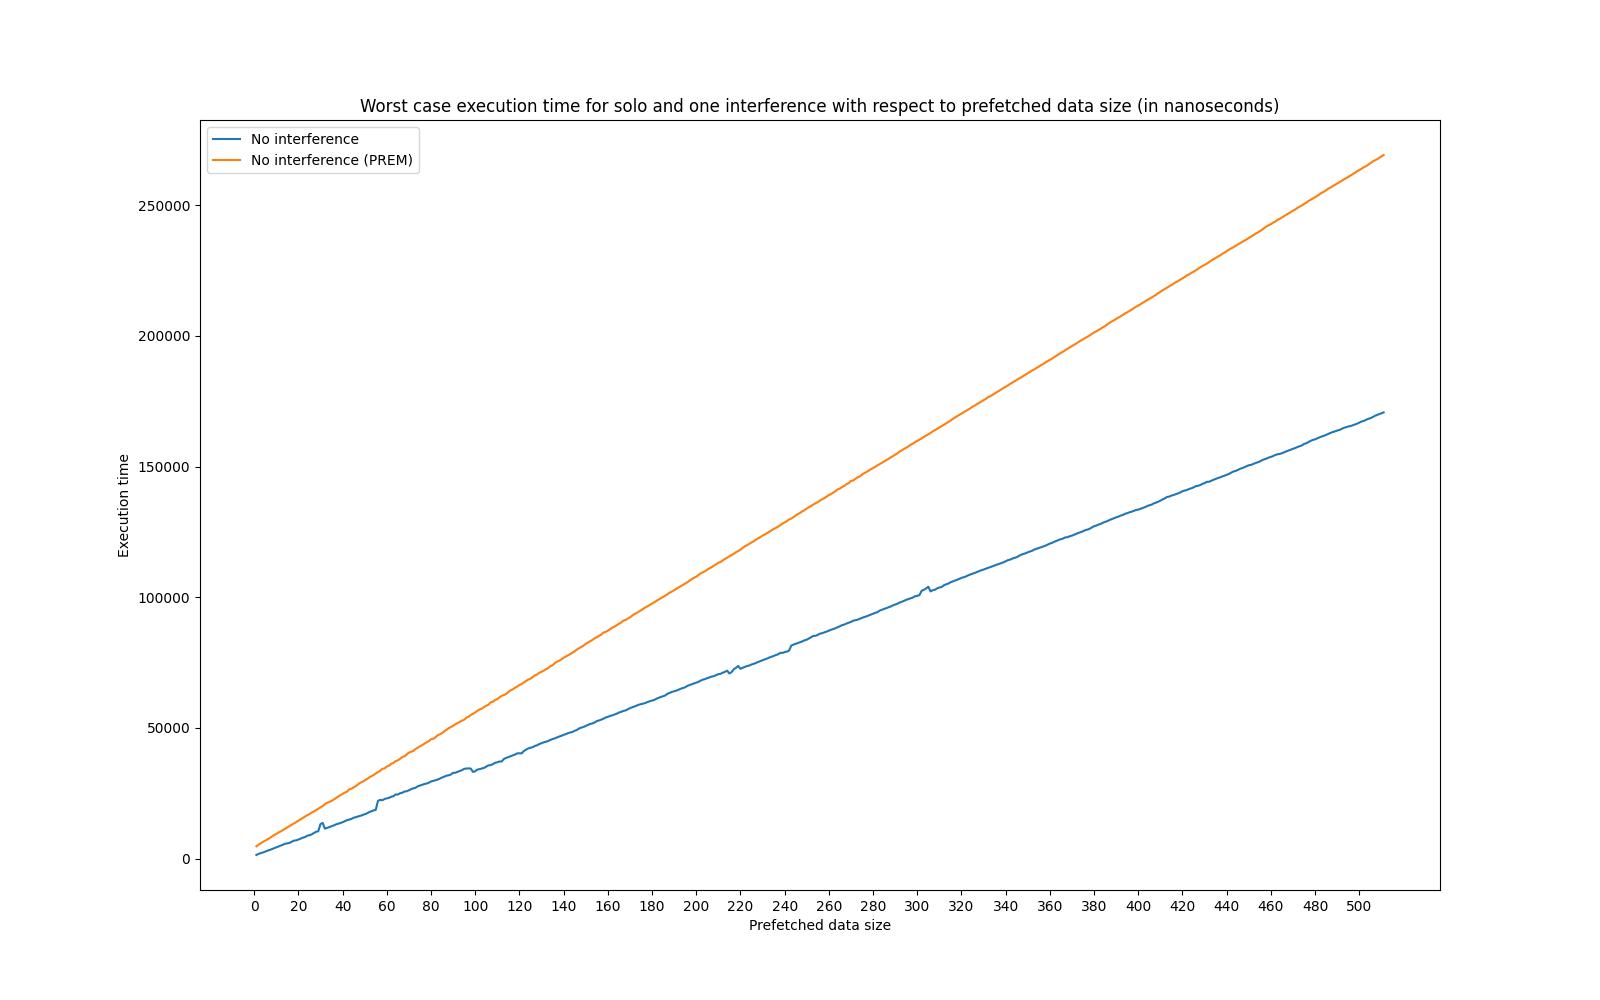
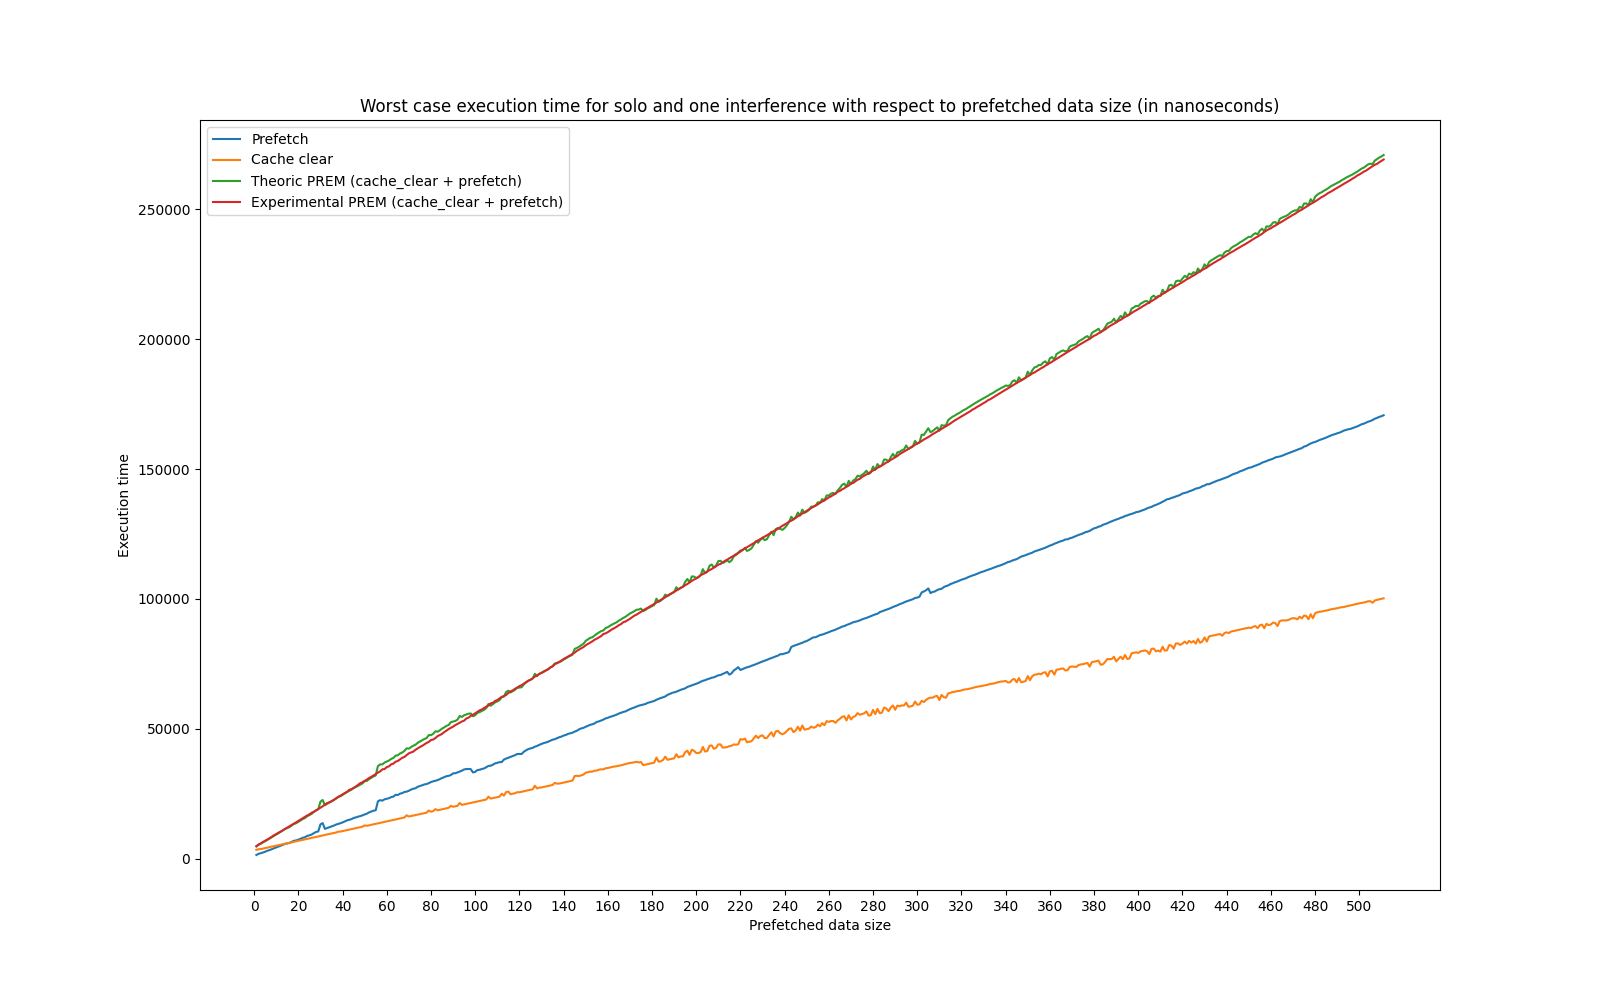
Modified benchmarks and regenerated PREM graph

diff --git a/test-logs/analysis/analysis_prem_solo_interferences.py b/test-logs/analysis/analysis_prem_solo_interferences.py
@@ -17,40 +17,25 @@ elapsed_time_array_varname_template = elapsed_time_array_varname_template_genera
 min_varname_template = min_varname_template_generator.format(template='{data_size:d}kB_ns')
 max_varname_template = max_varname_template_generator.format(template='{data_size:d}kB_ns')
 
-
-def estimate_coefficients(x, y):
-    # Number of observations/points 
-    n = np.size(x) 
-
-    # Mean of x and y vector 
-    m_x = np.mean(x) 
-    m_y = np.mean(y) 
-
-    # Calculating cross-deviation and deviation about x 
-    SS_xy = np.sum(y*x) - n*m_y*m_x 
-    SS_xx = np.sum(x*x) - n*m_x*m_x 
-
-    # Calculating regression coefficients 
-    b_1 = SS_xy / SS_xx 
-    b_0 = m_y - b_1*m_x 
-    
-    return (b_0, b_1) 
-
-
 def generate_solo_prem_curve(solo_log_max_varnames: dict[str,Any],
-                                          prem_log_max_varnames: dict[str,Any]) -> None:
+                             cache_log_max_varnames: dict[str,Any],
+                             prem_log_max_varnames: dict[str,Any]) -> None:
     # Generate x 
     x = [*range(min_data_size, max_data_size + 1, data_size_increment)]
     
     # For all sizes get the y value
     y_solo = [solo_log_max_varnames[max_varname_template.format(data_size=data_size)] for data_size in x]
+    y_cache = [cache_log_max_varnames[max_varname_template.format(data_size=data_size)] for data_size in x]
+    y_test = [y_solo[i] + y_cache[i] for i in range(len(y_solo))]
     y_prem = [prem_log_max_varnames[max_varname_template.format(data_size=data_size)] for data_size in x]
     
     # Set plot title
     plt.title('Worst case execution time for solo and one interference with respect to prefetched data size (in nanoseconds)')
     plt.xticks([*range(0, max_data_size + 1, 20)])
-    plt.plot(x, y_solo, label='No interference')
-    plt.plot(x, y_prem, label='No interference (PREM)')
+    plt.plot(x, y_solo, label='Prefetch')
+    plt.plot(x, y_cache, label='Cache clear')
+    plt.plot(x, y_test, label='Theoric PREM (cache_clear + prefetch)')
+    plt.plot(x, y_prem, label='Experimental PREM (cache_clear + prefetch)')
     plt.xlabel('Prefetched data size')
     plt.ylabel('Execution time')
     plt.legend()
@@ -168,11 +153,13 @@ def generate_solo_interference_regressed_difference(y_pred: tuple[float]) -> Non
 def main():
     # Big files so modules will crash... Only get few variables
     solo_log_max_varnames = get_variables_from_big_file('max_', '../extract/bench_solo_legacy-execution-solo-24-06-03-2.py')
+    cache_log_max_varnames = get_variables_from_big_file('max_', '../extract/bench_solo_legacy-execution-cache-clear-24-06-24-1.py')
     prem_log_max_varnames = get_variables_from_big_file('max_', '../extract/bench_solo_legacy-execution-prem-solo-24-06-21-1.py')
     
     # Plot curves with solo and interference 
     plt.figure('Solo and interference', figsize=(16, 10))
     generate_solo_prem_curve(solo_log_max_varnames=solo_log_max_varnames,
+                             cache_log_max_varnames=cache_log_max_varnames,
                              prem_log_max_varnames=prem_log_max_varnames)
     plt.savefig('../graphs/wcet_solo_prem.png')
     

diff --git a/test-logs/analysis/analysis_microbenchmarks.py b/test-logs/analysis/analysis_microbenchmarks.py
@@ -24,10 +24,14 @@ def generate_microbench_bargraph(microbench_log_varname: dict[str, Any]) -> None
     execution_max = {
         'hypercall': (microbench_log_varname[max_varname_template.format(name='hypercall')]),
         'IPI': (microbench_log_varname[max_varname_template.format(name='ipi')]),
-        'arbitration (prio 0)': (microbench_log_varname[max_varname_template.format(name='prio0')]),
-        'arbitration (prio 1)': (microbench_log_varname[max_varname_template.format(name='prio2')]),
-        'arbitration (prio 2)': (microbench_log_varname[max_varname_template.format(name='prio4')]),
-        'arbitration (prio 3)': (microbench_log_varname[max_varname_template.format(name='prio6')]),
+        'arbitration (prio 0)': (microbench_log_varname[max_varname_template.format(name='request_prio0')]),
+        'arbitration (prio 1)': (microbench_log_varname[max_varname_template.format(name='request_prio2')]),
+        'arbitration (prio 2)': (microbench_log_varname[max_varname_template.format(name='request_prio4')]),
+        'arbitration (prio 3)': (microbench_log_varname[max_varname_template.format(name='request_prio6')]),
+        'revoke (prio 0)': (microbench_log_varname[max_varname_template.format(name='revoke_prio0')]),
+        # 'revoke (prio 1)': (microbench_log_varname[max_varname_template.format(name='revoke_prio2')]),
+        # 'revoke (prio 2)': (microbench_log_varname[max_varname_template.format(name='revoke_prio4')]),
+        # 'revoke (prio 3)': (microbench_log_varname[max_varname_template.format(name='revoke_prio6')]),
     }
     
     x = np.arange(len(execution))  # the label locations
@@ -46,6 +50,7 @@ def generate_microbench_bargraph(microbench_log_varname: dict[str, Any]) -> None
     ax.set_ylabel('Execution time (in ns)')
     ax.set_title('Worst case execution time for important PREM steps (in nanoseconds)')
     ax.legend(loc='upper right')
+    
 
 def main():
     # Setting path to root folder
